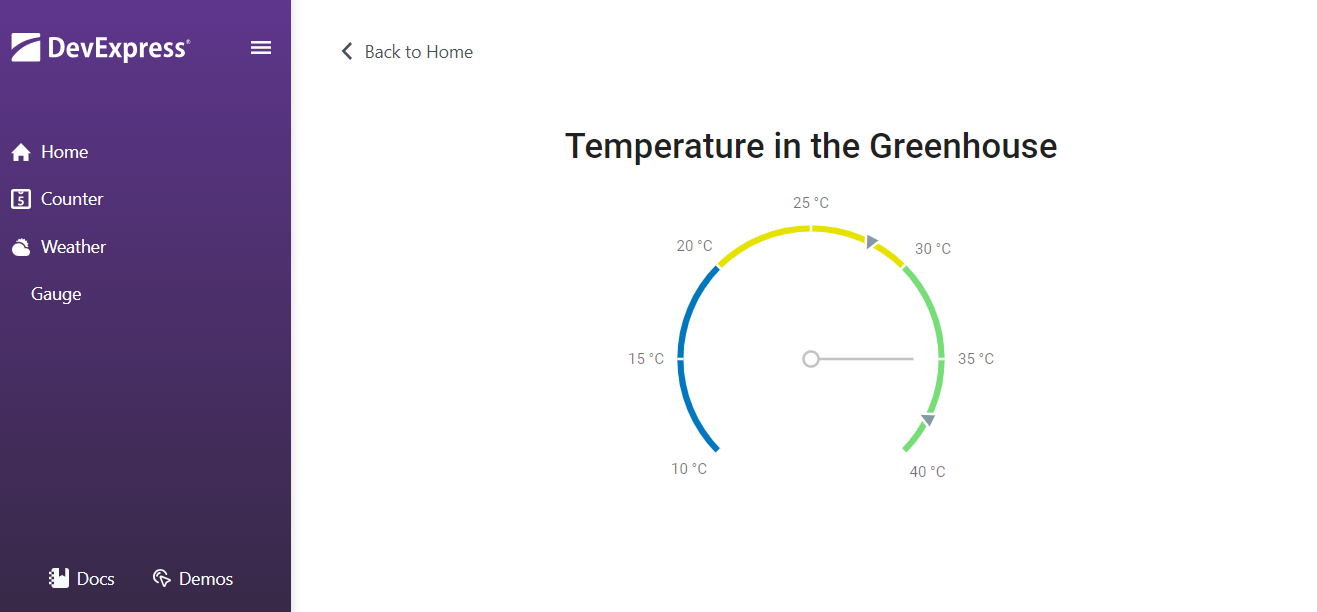
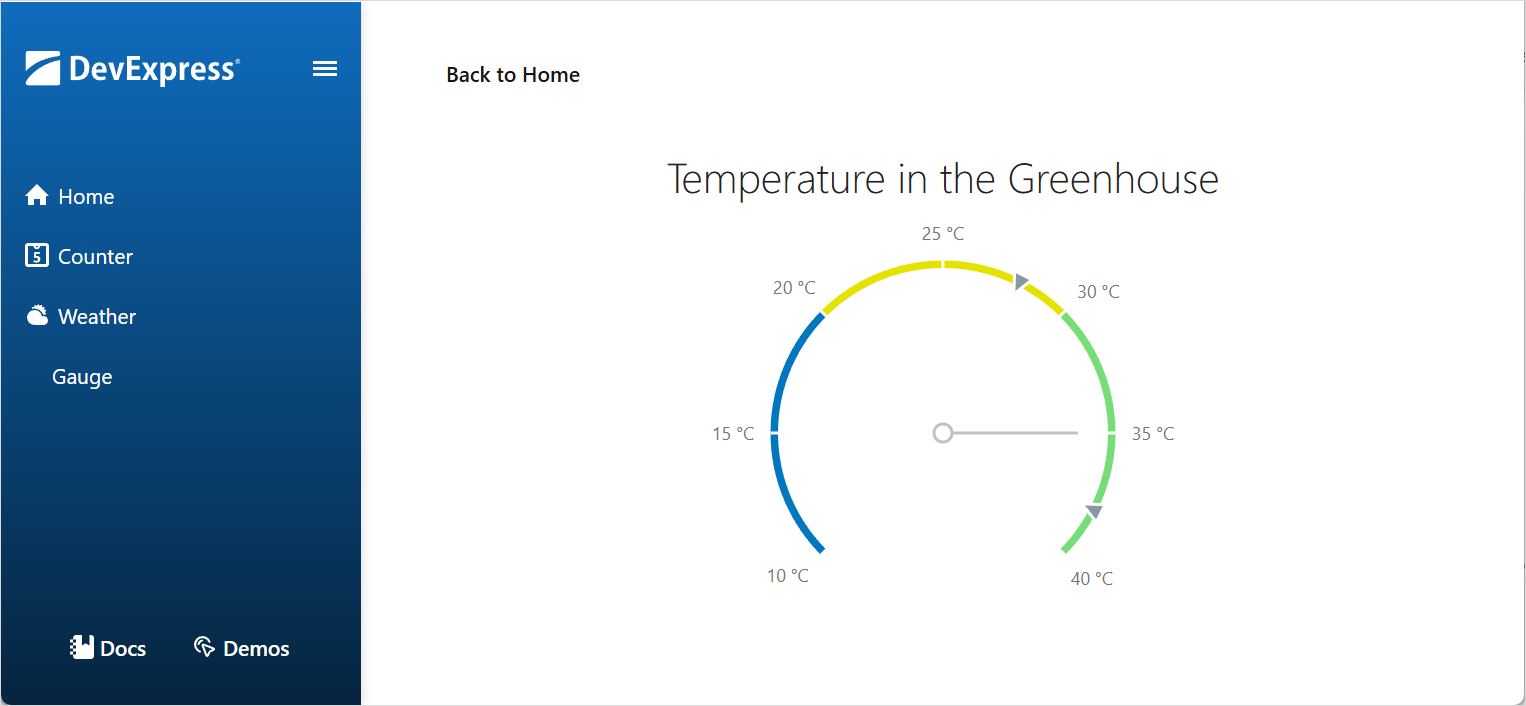
update to 25-1 Fluent (#7)

diff --git a/CS/DxtGaugeInBlazor/wwwroot/css/theme-fluent.css b/CS/DxtGaugeInBlazor/wwwroot/css/theme-fluent.css
@@ -1,0 +1,43 @@
+body {
+    margin: 0;
+}
+
+
+.w-100 {
+    width: 100%;
+}
+
+.text-danger {
+    color: var(--DS-color-surface-danger-default-rest);
+}
+
+.p-4 {
+    padding: 1.5rem;
+}
+
+.navigation-drawer {
+    --dxbl-drawer-separator-border-width: 0;
+}
+
+.menu-item {
+    --dxbl-menu-item-color: #fff;
+    --dxbl-menu-item-image-color: #fff;
+}
+
+[data-fluent-darkmode] .dxbl-theme-fluent .welcome-card {
+    color: var(--DS-primary-70);
+}
+
+.icon {
+    --icon-width: 1.25rem;
+    --icon-height: 1.25rem;
+    --icon-back-mask-image: url("/images/back-fluent.svg");
+    --icon-close-mask-image: url("/images/close-fluent.svg");
+    --icon-menu-mask-image: url("/images/menu-fluent.svg");
+    --icon-docs-mask-image: url("/images/doc-fluent.svg");
+    --icon-demos-mask-image: url("/images/demos-fluent.svg");
+    --icon-home-mask-image: url("/images/home-fluent.svg");
+    --icon-weather-mask-image: url("/images/weather-fluent.svg");
+    --icon-counter-mask-image: url("/images/counter-fluent.svg");
+}
+

diff --git a/CS/DxtGaugeInBlazor/Program.cs b/CS/DxtGaugeInBlazor/Program.cs
@@ -8,7 +8,6 @@ builder.Services.AddRazorComponents()
     .AddInteractiveServerComponents();
 
 builder.Services.AddDevExpressBlazor(options => {
-    options.BootstrapVersion = DevExpress.Blazor.BootstrapVersion.v5;
     options.SizeMode = DevExpress.Blazor.SizeMode.Medium;
 });
 builder.Services.AddSingleton<WeatherForecastService>();

diff --git a/README.md b/README.md
@@ -1,9 +1,3 @@
-<!-- default badges list -->
-![](https://img.shields.io/endpoint?url=https://codecentral.devexpress.com/api/v1/VersionRange/460853146/25.1.3%2B)
-[![](https://img.shields.io/badge/Open_in_DevExpress_Support_Center-FF7200?style=flat-square&logo=DevExpress&logoColor=white)](https://supportcenter.devexpress.com/ticket/details/T1069428)
-[![](https://img.shields.io/badge/📖_How_to_use_DevExpress_Examples-e9f6fc?style=flat-square)](https://docs.devexpress.com/GeneralInformation/403183)
-[![](https://img.shields.io/badge/💬_Leave_Feedback-feecdd?style=flat-square)](#does-this-example-address-your-development-requirementsobjectives)
-<!-- default badges end -->
 # Blazor - Use DevExtreme Circular Gauge in a Blazor Application
 
 This example shows how to embed [DevExtreme widgets](https://js.devexpress.com/Demos/WidgetsGallery/) into your Blazor application.
@@ -18,7 +12,6 @@ DevExtreme widgets require DevExtreme scripts and stylesheets. The DevExpress [R
 
 ```Razor
 <head>
-    <link href=@AppendVersion("https://cdn3.devexpress.com/jslib/24.2.3/css/dx.common.css") rel="stylesheet" />
     <link href=@AppendVersion("https://cdn3.devexpress.com/jslib/24.2.3/css/dx.material.purple.light.compact.css") rel="stylesheet" />
     <!-- ... -->
 </head>
